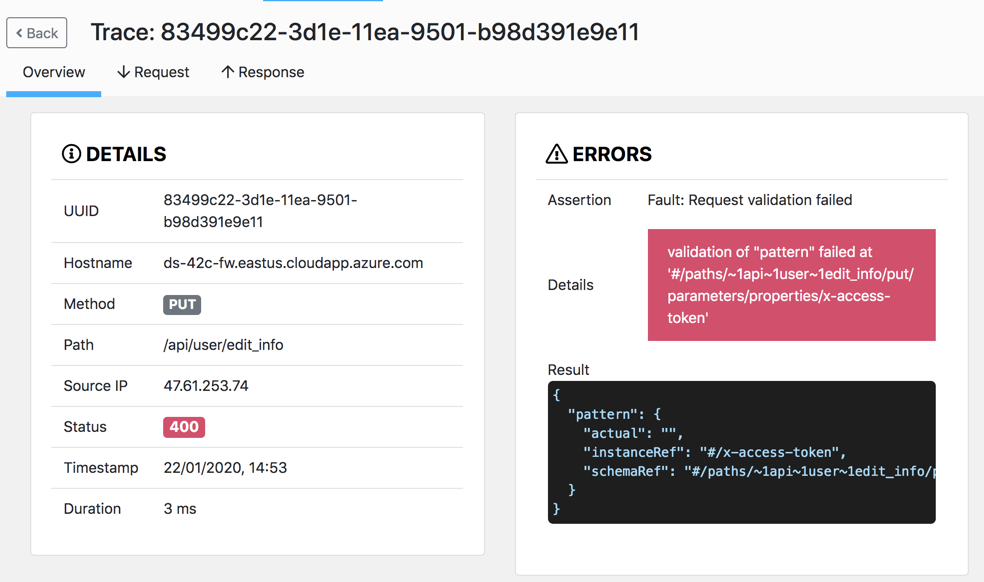
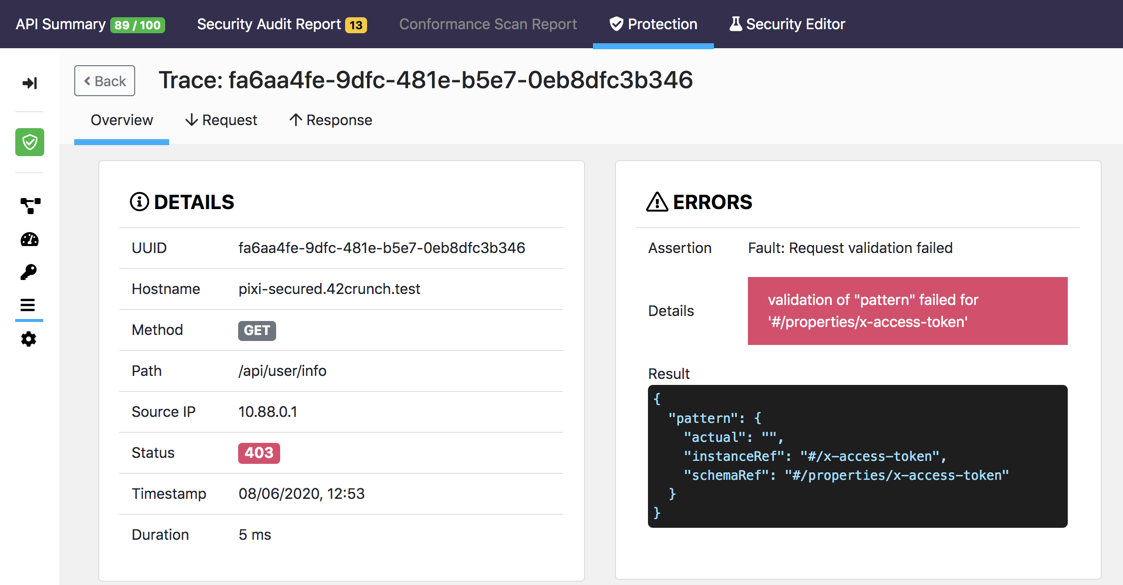
Updated for platform v.23.0

diff --git a/Minikube.md b/Minikube.md
@@ -47,18 +47,18 @@ You must be a registered user on the [42Crunch Platform](https://platform.42crun
 You must have Minikube running to deploy the artifacts. You can get started with Minikube in two easy steps:
 
 1. Install [Minikube](https://kubernetes.io/docs/tasks/tools/install-minikube/). If you have not installed **kubectl** yet, the Minikube instructions take you through installing that as well.
-2. Run the command `minikube start -p 42crunch-cluster` to create a separate minikube cluster VM for this guide. The default Kubernetes node setup (2 vCPUS, 2 Gb RAM) is more than enough to run our firewall.
+2. Run the command `minikube start -p 42crunch-cluster` to create a separate minikube cluster VM for this guide. The default Kubernetes node setup (2 vCPUS, 2 Gb RAM) is more than enough to run our firewall in evaluation mode.
 
 You should see a startup trace similar to:
 
 >  ```txt
->  😄  [42crunch-cluster] minikube v1.6.2 on Darwin 10.14.6
->  ✨  Automatically selected the 'hyperkit' driver (alternates: [virtualbox])
->  🔥  Creating hyperkit VM (CPUs=2, Memory=2000MB, Disk=20000MB) ...
->  🐳  Preparing Kubernetes v1.17.0 on Docker '19.03.5' ...
->  🚜  Pulling images ...
->  🚀  Launching Kubernetes ... 
->  ⌛  Waiting for cluster to come online ...
+>  😄  [42crunch-cluster] minikube v1.11.0 on Darwin 10.14.6
+>  ✨  Using the hyperkit driver based on existing profile
+>  👍  Starting control plane node 42crunch-cluster in cluster 42crunch-cluster
+>  🔄  Restarting existing hyperkit VM for "42crunch-cluster" ...
+>  🎁  Preparing Kubernetes v1.18.3 on CRI-O 1.17.1 ...
+>  🔎  Verifying Kubernetes components...
+>  🌟  Enabled addons: default-storageclass, storage-provisioner
 >  🏄  Done! kubectl is now configured to use "42crunch-cluster"
 >  ```
 
@@ -215,10 +215,10 @@ We now have a running configuration with two endpoints: one that invokes the uns
    }
    ```
 
-4. Test the secured endpoint setup by invoking http://pixi-secured.42crunch.test:30443 - You should receive a message like this one, indicating the firewall has blocked the request.
+4. Test the secured endpoint setup by invoking https://pixi-secured.42crunch.test:30443 - You should receive a message like this one, indicating the firewall has blocked the request.
 
    ```json
-   {"status":400,"title":"request fetching","detail":"Bad Request","instance":"http://pixi-secured.42crunch.test/","uuid":"227cc698-e60d-11e9-9b1c-55b33823ae8d"}
+   {"status":404,"title":"path mapping","detail":"Not Found","instance":"https://pixi-secured.42crunch.test:30443/","uuid":"570cab59-bb80-41c9-a46d-2783faefd1bc"}
    ```
 5. Import the file `postman-collection/Pixi.postman_collection.json` in Postman (Import->Import from File)
 
@@ -231,6 +231,7 @@ We now have a running configuration with two endpoints: one that invokes the uns
    ![Postman-Secure](./graphics/Postman-Secure.png)
 
 7. Select the **42Crunch-Unsecure** environment
+
 8. Go to the Pixi collecton and invoke the operation `POST /api/register` with the following contents
 
 ```json
@@ -255,6 +256,16 @@ You should see a response similar to this. The `x-access-token` is a JWT that yo
 
 Now that we know everything works, we can start testing the API Firewall.
 
+# Blocking attacks with API Firewall
+
+42Crunch API Firewall validates API requests and responses according to the OpenAPI definition of the protected API. In this section, you send various malicious requests to the API firewall to test its behavior.
+
+## Viewing Transaction Logs
+
+Whenever a request/response is blocked, transaction logs are automatically published to the 42Crunch platform. You can access the transaction logs viewer from the API protection tab. For each entry, you can view details information about the request and response step, as well as each step latency.
+
+![](./graphics/42c_logging.jpeg)
+
 ## Understanding Pixi
 
 Pixi requires to register or login users to obtain a token, token which is then used to invoke other operations. The Postman has been setup to extract the token from login or register responses and add them automatically to the **current environment**, like this:
@@ -271,16 +282,6 @@ Other operations, such getUserInfo or updateUserInfo take the value of the **tok
 Make sure you always call either login or register before calling any other operations, or the request will fail at the firewall level, since the x-access-token header will be empty! When this happens, this is what you will see in the transaction logs of the API firewall .
 
 ![BadAccessToken](./graphics/BadAccessToken.png)
-
-# Blocking attacks with API Firewall
-
-42Crunch API Firewall validates API requests and responses according to the OpenAPI definition of the protected API. In this section, you send various malicious requests to the API firewall to test its behavior.
-
-## Viewing Transaction Logs
-
-Whenever a request/response is blocked, transaction logs are automatically published to the 42Crunch platform. You can access the transaction logs viewer from the API protection tab. For each entry, you can view details information about the request and response step, as well as each step latency.
-
-![](./graphics/42c_logging.jpeg)
 
 ## Blocking Pixi API sample attacks
 
